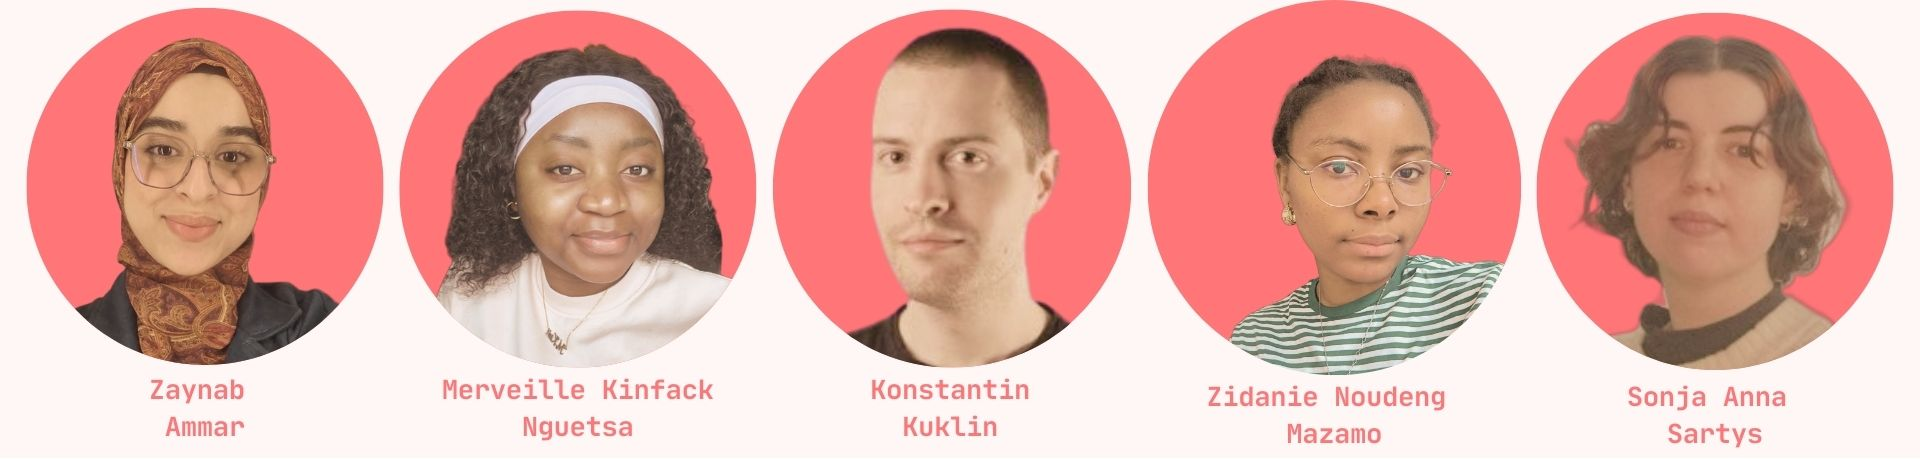
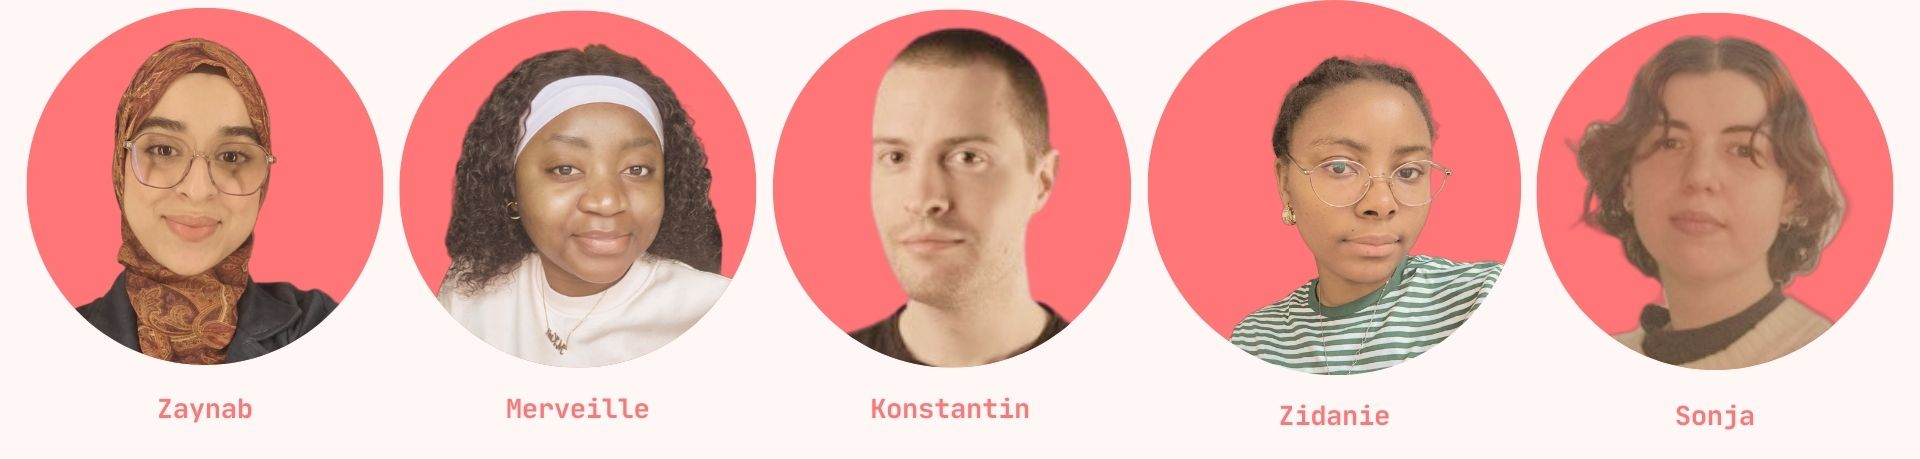
Final version for 2. release train (names adjusted for GDPR-conformity)

diff --git a/content/ws25/master/m4-bundesecho/_index.md b/content/ws25/master/m4-bundesecho/_index.md
@@ -7,7 +7,7 @@ claim = "When thousands of political Q&As blur the big picture, BundesEcho revea
 # Properties for displaying the project in the project list
 card_image = "project_images/overview/thumbnail.jpg"
 
-team = ["Zaynab Ammar", "Merveille Kinfack Nguetsa", "Konstantin Kuklin", "Zidanie Noudeng Mazamo", "Sonja Anna Sartys"]
+team = ["Zaynab", "Merveille", "Konstantin", "Zidanie", "Sonja"]
 supervisor = "Bruno Schilling"
 draft = false
 
@@ -67,7 +67,7 @@ BundesEcho began with a joint research and concept phase, ensuring a shared unde
 - API design and ETL pipelines
 - Integration of locally hosted language models
 
-We also thank Darius Bandt for designing the Showtime poster and HTW Berlin for providing access to machine learning infrastructure.
+We also thank Darius B. for designing the Showtime poster and HTW Berlin for providing access to machine learning infrastructure.
 
 {{</section>}} 
 
